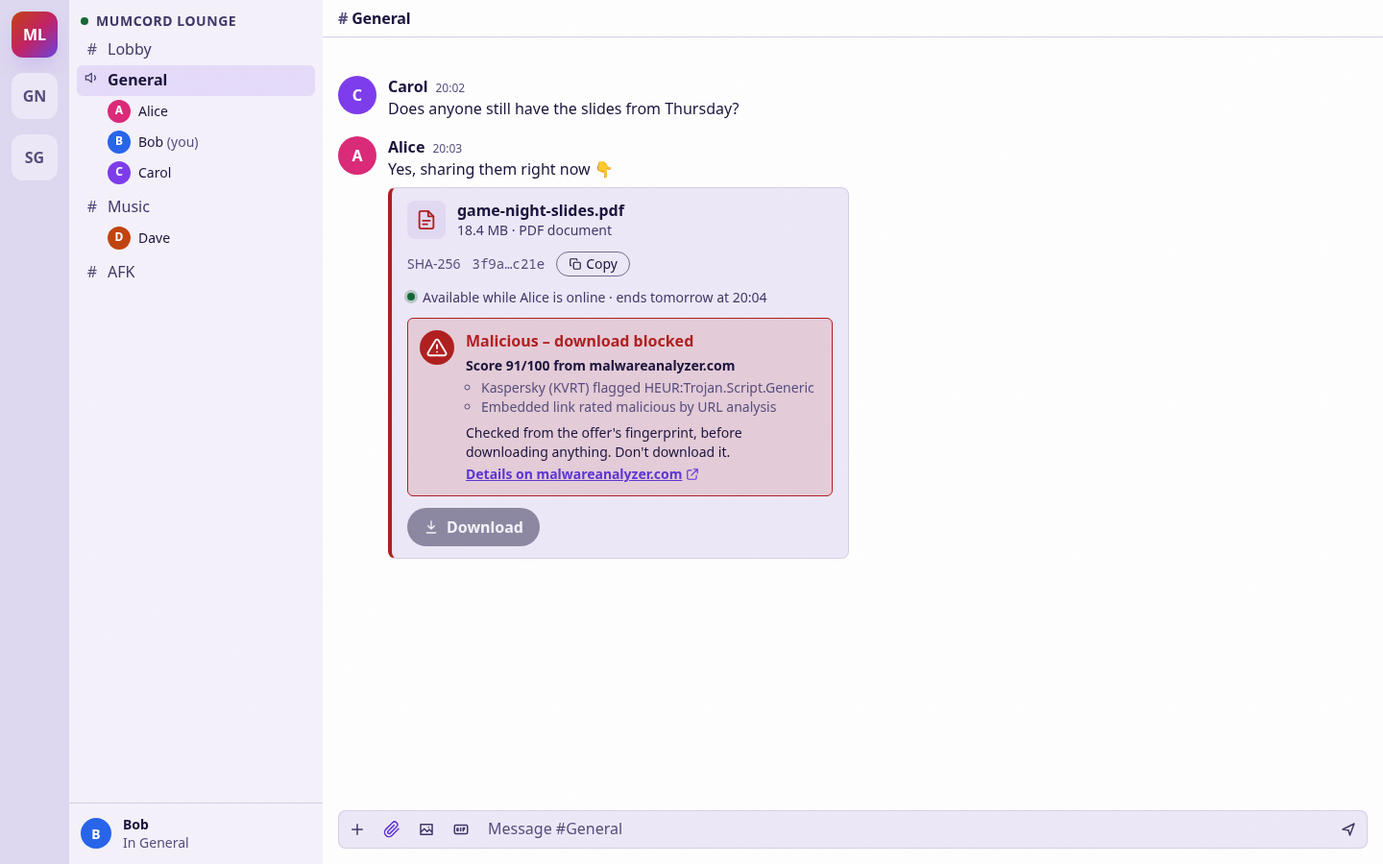
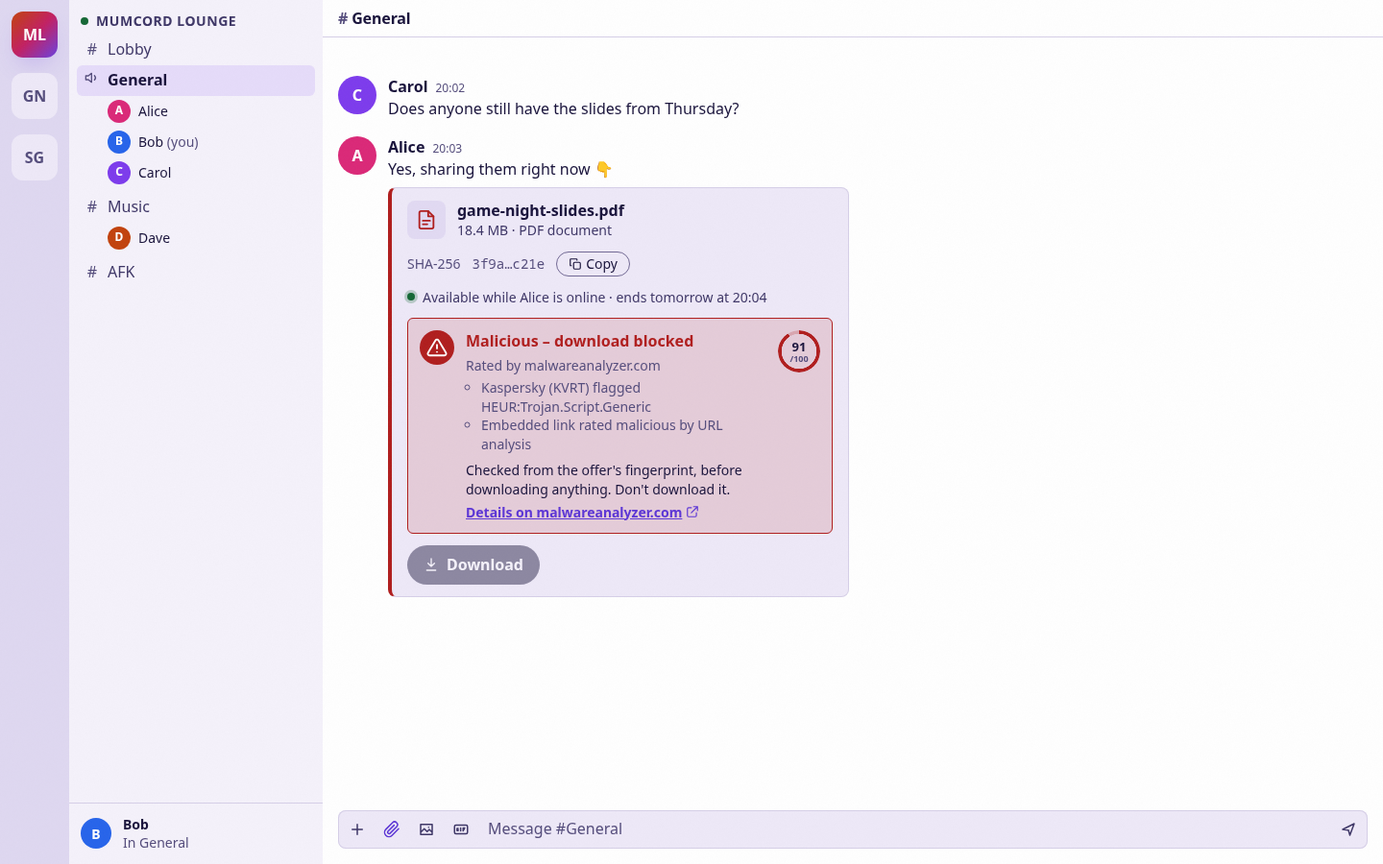
docs: add malware score ring and heuristic-only media state to Epic 4.1 mockups
Show the score as a ring coloured by verdict next to every malware result,
and add 15-suspicious-media: a JPEG flagged only by heuristics gets an
informational note and a normal Download button.

Changed region(s): [[0.2812, 0.3733, 0.625, 0.6844]]

diff --git a/docs/mockups/epic-4.1/15-suspicious-media.html b/docs/mockups/epic-4.1/15-suspicious-media.html
@@ -1,0 +1,68 @@
+<!doctype html>
+<html lang="en" data-theme="dark">
+<head>
+<meta charset="utf-8">
+<meta name="viewport" content="width=device-width, initial-scale=1">
+<title>Recipient – suspicious media offer – Epic 4.1 mockup</title>
+<!-- Same fonts the app bundles via @fontsource (not installed for static mockups). -->
+<link rel="stylesheet" href="https://fonts.googleapis.com/css2?family=Bricolage+Grotesque:opsz,wght@12..96,200..800&family=Instrument+Sans:wght@400..700&display=swap">
+<link rel="stylesheet" href="../../../ui/src/theme/global.css">
+<link rel="stylesheet" href="../../../ui/src/app/shell.css">
+<link rel="stylesheet" href="../../../ui/src/features/app/app.css">
+<link rel="stylesheet" href="../../../ui/src/features/servers/servers.css">
+<link rel="stylesheet" href="../../../ui/src/features/channels/channels.css">
+<link rel="stylesheet" href="../../../ui/src/features/members/members.css">
+<link rel="stylesheet" href="../../../ui/src/features/chat/chat.css">
+<link rel="stylesheet" href="../../../ui/src/features/chat/mediaCards.css">
+<link rel="stylesheet" href="../../../ui/src/features/plugins/prompt/progress.css">
+<link rel="stylesheet" href="../../../ui/src/features/settings/settings.css">
+<link rel="stylesheet" href="mock.css">
+<!-- ?theme=light switches to the light theme, like the app's data-theme on <html>. -->
+<script>document.documentElement.dataset.theme = new URLSearchParams(location.search).get("theme") || "dark";</script>
+</head>
+<body class="">
+<div class="shell" style="--channels-width: 16.5rem; --members-column-width: 0px">
+  <nav class="shell__servers" aria-label="Servers"><div class="server-bar"><ul class="server-bar__list"><li class="server-bar__item" data-active><button class="server-bar__server mock-server mock-server--active" type="button" aria-label="Mumcord Lounge">ML</button></li><li class="server-bar__item"><button class="server-bar__server mock-server" type="button" aria-label="Game Night">GN</button></li><li class="server-bar__item"><button class="server-bar__server mock-server" type="button" aria-label="Study Group">SG</button></li></ul></div></nav>
+  <div class="shell__channel-column" aria-label="Channels">
+    <div class="mock-section"><h2 class="server-section__title"><span class="server-section__dot"></span><span class="server-section__name">Mumcord Lounge</span></h2></div>
+    <ul class="mock-tree"><li class="mock-channel"><div class="tree-channel__row"><span class="tree-channel__glyph"><span class="mock-hash">#</span></span><span class="tree-channel__label"><span class="tree-channel__name">Lobby</span></span></div></li><li class="mock-channel"><div class="tree-channel__row" data-here><span class="tree-channel__glyph"><svg viewBox="0 0 24 24" width="16" height="16" aria-hidden="true" fill="none" stroke="currentColor" stroke-width="2" stroke-linecap="round" stroke-linejoin="round"><path d="M11 5 6 9H2v6h4l5 4zM15.5 8.5a5 5 0 0 1 0 7"/></svg></span><span class="tree-channel__label"><span class="tree-channel__name">General</span></span></div><ul class="mock-people"><li class="tree-person mock-person"><span class="tree-person__row"><span class="avatar" data-size="sm" data-initial="A" style="--avatar-bg: var(--color-avatar-4)" aria-hidden="true"></span><span class="tree-person__name">Alice</span></span></li><li class="tree-person mock-person"><span class="tree-person__row"><span class="avatar" data-size="sm" data-initial="B" style="--avatar-bg: var(--color-avatar-8)" aria-hidden="true"></span><span class="tree-person__name">Bob <span class="tree-person__you">(you)</span></span></span></li><li class="tree-person mock-person"><span class="tree-person__row"><span class="avatar" data-size="sm" data-initial="C" style="--avatar-bg: var(--color-avatar-2)" aria-hidden="true"></span><span class="tree-person__name">Carol</span></span></li></ul></li><li class="mock-channel"><div class="tree-channel__row"><span class="tree-channel__glyph"><span class="mock-hash">#</span></span><span class="tree-channel__label"><span class="tree-channel__name">Music</span></span></div><ul class="mock-people"><li class="tree-person mock-person"><span class="tree-person__row"><span class="avatar" data-size="sm" data-initial="D" style="--avatar-bg: var(--color-avatar-6)" aria-hidden="true"></span><span class="tree-person__name">Dave</span></span></li></ul></li><li class="mock-channel"><div class="tree-channel__row"><span class="tree-channel__glyph"><span class="mock-hash">#</span></span><span class="tree-channel__label"><span class="tree-channel__name">AFK</span></span></div></li></ul>
+    <section class="shell__user-panel mock-userpanel" aria-label="You"><span class="avatar" data-size="md" data-initial="B" style="--avatar-bg: var(--color-avatar-8)" aria-hidden="true"></span><span><strong>Bob</strong><br><span class="mock-muted">In General</span></span></section>
+  </div>
+  <main class="shell__chat" aria-label="Chat">
+  <header class="chat-header"><h2 class="chat-header__title"><span class="chat-header__hash" aria-hidden="true">#</span>General</h2></header>
+  <div class="shell__chat-body">
+    <div class="chat-list-frame"><div class="chat-list"><ul class="chat-list__items"><li class="chat-message chat-message--start"><div class="chat-message__row">
+  <div class="chat-message__gutter"><span class="avatar" data-size="md" data-initial="C" style="--avatar-bg: var(--color-avatar-2)" aria-hidden="true"></span></div>
+  <div class="chat-message__content"><div class="chat-message__header"><span class="chat-message__sender">Carol</span><time class="chat-message__time">20:02</time></div>
+  <div class="chat-message__body"><p>Does anyone still have the slides from Thursday?</p></div></div></div></li><li class="chat-message chat-message--start"><div class="chat-message__row">
+  <div class="chat-message__gutter"><span class="avatar" data-size="md" data-initial="A" style="--avatar-bg: var(--color-avatar-4)" aria-hidden="true"></span></div>
+  <div class="chat-message__content"><div class="chat-message__header"><span class="chat-message__sender">Alice</span><time class="chat-message__time">20:03</time></div>
+  <div class="chat-message__body"><p>Here's the group photo from Thursday 👇</p></div></div></div></li><li class="chat-message"><div class="chat-message__row"><div class="chat-message__gutter"></div>
+  <div class="chat-message__content"><div class="chat-message__body"><div class="audio-card file-card" role="group" aria-label="File photo.jpg">
+  <div class="audio-card__head">
+    <span class="audio-card__icon"><svg viewBox="0 0 24 24" width="22" height="22" aria-hidden="true" fill="none" stroke="currentColor" stroke-width="2" stroke-linecap="round" stroke-linejoin="round"><rect x="3" y="3" width="18" height="18" rx="2"/><circle cx="8.5" cy="8.5" r="1.5"/><path d="m21 15-5-5L5 21"/></svg></span>
+    <div class="audio-card__text"><p class="audio-card__name">photo.jpg</p><p class="audio-card__facts">3.1 MB · JPEG image</p></div>
+  </div>
+  
[1 lines of base64/hex data omitted]
+  <p class="file-card__status"><span class="file-card__dot" data-online></span>Available while Alice is online · ends tomorrow at 20:04</p>
+  <div class="malware-note"><span class="score-ring" data-level="suspicious" style="--score: 49" role="img" aria-label="Malware score 49 of 100, suspicious"><span class="score-ring__value" aria-hidden="true">49<span class="score-ring__max">/100</span></span></span><div class="malware-alert__body"><p class="malware-note__title">Flagged by heuristics only — common for images</p><p class="malware-alert__source">Rated suspicious by malwareanalyzer.com</p><ul class="malware-alert__signals" aria-label="Top findings"><li>MalwareAnalyser heuristics (entropy/packer) flagged high-entropy-blob</li><li>Embedded URL in the photo's metadata (purl.org)</li></ul><p>Compressed images look like this to the scanner. No antivirus engine flagged it.</p><a class="malware-alert__details" href="https://malwareanalyzer.com/report/19a352555dbb5e5b40ca3b7b7f1246a86e2b8db87629aabd70b4572fd1d55158" title="Opens malwareanalyzer.com in your browser">Details on malwareanalyzer.com<svg viewBox="0 0 24 24" width="14" height="14" aria-hidden="true" fill="none" stroke="currentColor" stroke-width="2" stroke-linecap="round" stroke-linejoin="round"><path d="M14 3h7v7M10 14 21 3M19 14v5a2 2 0 0 1-2 2H5a2 2 0 0 1-2-2V7a2 2 0 0 1 2-2h5"/></svg><span class="mock-sr">(opens in your browser)</span></a></div></div>
+  <div class="file-card__actions"><button type="button" class="button button--primary file-card__button"><svg viewBox="0 0 24 24" width="16" height="16" aria-hidden="true" fill="none" stroke="currentColor" stroke-width="2" stroke-linecap="round" stroke-linejoin="round"><path d="M12 3v12M7 10l5 5 5-5M5 21h14"/></svg><span>Download</span></button></div>
+</div></div></div></div></li></ul></div></div>
+    <form class="chat-composer" aria-label="Message composer">
+  
+  <div class="chat-composer__row">
+    <div class="chat-apps"><button type="button" class="chat-composer__icon chat-apps__button" aria-label="Apps"><svg viewBox="0 0 24 24" width="18" height="18" aria-hidden="true" fill="none" stroke="currentColor" stroke-width="2" stroke-linecap="round" stroke-linejoin="round"><path d="M12 5v14M5 12h14"/></svg></button></div>
+    <button type="button" class="chat-composer__icon mock-new" aria-label="Attach a file" data-tooltip="Attach a file"><svg viewBox="0 0 24 24" width="18" height="18" aria-hidden="true" fill="none" stroke="currentColor" stroke-width="2" stroke-linecap="round" stroke-linejoin="round"><path d="m21.4 11.1-9.2 9.2a6 6 0 0 1-8.5-8.5l9.2-9.2a4 4 0 0 1 5.7 5.7l-9.2 9.2a2 2 0 0 1-2.8-2.8l8.5-8.5"/></svg></button>
+    <button type="button" class="chat-composer__icon" aria-label="Add image"><svg viewBox="0 0 24 24" width="18" height="18" aria-hidden="true" fill="none" stroke="currentColor" stroke-width="2" stroke-linecap="round" stroke-linejoin="round"><path d="M4 5h16v14H4zM4 16l5-5 4 4 3-3 4 4M15 9h.01"/></svg></button>
+    <button type="button" class="chat-composer__icon" aria-label="GIF"><svg viewBox="0 0 24 24" width="18" height="18" aria-hidden="true" fill="none" stroke="currentColor" stroke-width="2" stroke-linecap="round" stroke-linejoin="round"><rect x="3" y="6" width="18" height="12" rx="2"/><path d="M8 10.5h-1.5v3H8v-1.2M11.5 10v4M15 14v-4h2.2M15 12h1.6"/></svg></button>
+    <textarea class="chat-composer__input" rows="1" aria-label="Message #General" placeholder="Message #General"></textarea>
+    <button type="submit" class="chat-composer__icon" aria-label="Send"><svg viewBox="0 0 24 24" width="18" height="18" aria-hidden="true" fill="none" stroke="currentColor" stroke-width="2" stroke-linecap="round" stroke-linejoin="round"><path d="M4 12l16-8-6 16-2-7z"/></svg></button>
+  </div>
+</form>
+  </div>
+  
+</main>
+</div>
+</body>
+</html>

diff --git a/docs/mockups/epic-4.1/14-suspicious.html b/docs/mockups/epic-4.1/14-suspicious.html
@@ -46,7 +46,7 @@
   
[1 lines of base64/hex data omitted]
   <p class="file-card__status"><span class="file-card__dot" data-online></span>Available while Alice is online · ends tomorrow at 20:04</p>
-  <div class="malware-alert malware-alert--suspicious" role="alert"><span class="malware-alert__icon"><svg viewBox="0 0 24 24" width="22" height="22" aria-hidden="true" fill="none" stroke="currentColor" stroke-width="2" stroke-linecap="round" stroke-linejoin="round"><path d="M10.3 3.9 1.8 18a2 2 0 0 0 1.7 3h17a2 2 0 0 0 1.7-3L13.7 3.9a2 2 0 0 0-3.4 0zM12 9v4M12 17h.01"/></svg></span><div><p class="malware-alert__title">Suspicious – check before downloading</p><p class="malware-alert__score">Score 54/100 from malwareanalyzer.com</p><ul class="malware-alert__signals" aria-label="Top findings"><li>Emsisoft (Emergency Kit) flagged PDF.Spam.Heur.1</li><li>MalwareAnalyser heuristics (entropy/packer) flagged high-entropy-blob</li></ul><p>Some signs point to a harmful file, but it isn't confirmed. Only download it if you trust Alice and expected this file.</p><a class="malware-alert__details" href="https://malwareanalyzer.com/report/8c41d0e9a7f35b26c1e8d4a09f7b3e52d6a1c8f40b9e27d5a3c6f1e08b4d97a2" title="Opens malwareanalyzer.com in your browser">Details on malwareanalyzer.com<svg viewBox="0 0 24 24" width="14" height="14" aria-hidden="true" fill="none" stroke="currentColor" stroke-width="2" stroke-linecap="round" stroke-linejoin="round"><path d="M14 3h7v7M10 14 21 3M19 14v5a2 2 0 0 1-2 2H5a2 2 0 0 1-2-2V7a2 2 0 0 1 2-2h5"/></svg><span class="mock-sr">(opens in your browser)</span></a></div></div>
+  <div class="malware-alert malware-alert--suspicious" role="alert"><span class="malware-alert__icon"><svg viewBox="0 0 24 24" width="22" height="22" aria-hidden="true" fill="none" stroke="currentColor" stroke-width="2" stroke-linecap="round" stroke-linejoin="round"><path d="M10.3 3.9 1.8 18a2 2 0 0 0 1.7 3h17a2 2 0 0 0 1.7-3L13.7 3.9a2 2 0 0 0-3.4 0zM12 9v4M12 17h.01"/></svg></span><div class="malware-alert__body"><p class="malware-alert__title">Suspicious – check before downloading</p><p class="malware-alert__source">Rated by malwareanalyzer.com</p><ul class="malware-alert__signals" aria-label="Top findings"><li>Emsisoft (Emergency Kit) flagged PDF.Spam.Heur.1</li><li>MalwareAnalyser heuristics (entropy/packer) flagged high-entropy-blob</li></ul><p>Some signs point to a harmful file, but it isn't confirmed. Only download it if you trust Alice and expected this file.</p><a class="malware-alert__details" href="https://malwareanalyzer.com/report/8c41d0e9a7f35b26c1e8d4a09f7b3e52d6a1c8f40b9e27d5a3c6f1e08b4d97a2" title="Opens malwareanalyzer.com in your browser">Details on malwareanalyzer.com<svg viewBox="0 0 24 24" width="14" height="14" aria-hidden="true" fill="none" stroke="currentColor" stroke-width="2" stroke-linecap="round" stroke-linejoin="round"><path d="M14 3h7v7M10 14 21 3M19 14v5a2 2 0 0 1-2 2H5a2 2 0 0 1-2-2V7a2 2 0 0 1 2-2h5"/></svg><span class="mock-sr">(opens in your browser)</span></a></div><span class="score-ring" data-level="suspicious" style="--score: 54" role="img" aria-label="Malware score 54 of 100, suspicious"><span class="score-ring__value" aria-hidden="true">54<span class="score-ring__max">/100</span></span></span></div>
   <div class="file-card__actions"><button type="button" class="media-pill file-card__button file-card__button--warning"><svg viewBox="0 0 24 24" width="16" height="16" aria-hidden="true" fill="none" stroke="currentColor" stroke-width="2" stroke-linecap="round" stroke-linejoin="round"><path d="M12 3v12M7 10l5 5 5-5M5 21h14"/></svg><span>Download anyway…</span></button><span class="mock-muted">Asks you to confirm first.</span></div>
 </div></div></div></div></li></ul></div></div>
     <form class="chat-composer" aria-label="Message composer">

diff --git a/docs/mockups/epic-4.1/02b-offer-malware.html b/docs/mockups/epic-4.1/02b-offer-malware.html
@@ -46,7 +46,7 @@
   
[1 lines of base64/hex data omitted]
   <p class="file-card__status"><span class="file-card__dot" data-online></span>Available while Alice is online · ends tomorrow at 20:04</p>
-  <div class="malware-alert" role="alert"><span class="malware-alert__icon"><svg viewBox="0 0 24 24" width="22" height="22" aria-hidden="true" fill="none" stroke="currentColor" stroke-width="2" stroke-linecap="round" stroke-linejoin="round"><path d="M10.3 3.9 1.8 18a2 2 0 0 0 1.7 3h17a2 2 0 0 0 1.7-3L13.7 3.9a2 2 0 0 0-3.4 0zM12 9v4M12 17h.01"/></svg></span><div><p class="malware-alert__title">Malicious – download blocked</p><p class="malware-alert__score">Score 91/100 from malwareanalyzer.com</p><ul class="malware-alert__signals" aria-label="Top findings"><li>Kaspersky (KVRT) flagged HEUR:Trojan.Script.Generic</li><li>Embedded link rated malicious by URL analysis</li></ul><p>Checked from the offer's fingerprint, before downloading anything. Don't download it.</p><a class="malware-alert__details" href="https://malwareanalyzer.com/report/3f9a1c7e5b2d8046a9e3c1f7d5b8a24e60c9f1d3b7a5e8c2406d9b1f3a7ec21e" title="Opens malwareanalyzer.com in your browser">Details on malwareanalyzer.com<svg viewBox="0 0 24 24" width="14" height="14" aria-hidden="true" fill="none" stroke="currentColor" stroke-width="2" stroke-linecap="round" stroke-linejoin="round"><path d="M14 3h7v7M10 14 21 3M19 14v5a2 2 0 0 1-2 2H5a2 2 0 0 1-2-2V7a2 2 0 0 1 2-2h5"/></svg><span class="mock-sr">(opens in your browser)</span></a></div></div>
+  <div class="malware-alert" role="alert"><span class="malware-alert__icon"><svg viewBox="0 0 24 24" width="22" height="22" aria-hidden="true" fill="none" stroke="currentColor" stroke-width="2" stroke-linecap="round" stroke-linejoin="round"><path d="M10.3 3.9 1.8 18a2 2 0 0 0 1.7 3h17a2 2 0 0 0 1.7-3L13.7 3.9a2 2 0 0 0-3.4 0zM12 9v4M12 17h.01"/></svg></span><div class="malware-alert__body"><p class="malware-alert__title">Malicious – download blocked</p><p class="malware-alert__source">Rated by malwareanalyzer.com</p><ul class="malware-alert__signals" aria-label="Top findings"><li>Kaspersky (KVRT) flagged HEUR:Trojan.Script.Generic</li><li>Embedded link rated malicious by URL analysis</li></ul><p>Checked from the offer's fingerprint, before downloading anything. Don't download it.</p><a class="malware-alert__details" href="https://malwareanalyzer.com/report/3f9a1c7e5b2d8046a9e3c1f7d5b8a24e60c9f1d3b7a5e8c2406d9b1f3a7ec21e" title="Opens malwareanalyzer.com in your browser">Details on malwareanalyzer.com<svg viewBox="0 0 24 24" width="14" height="14" aria-hidden="true" fill="none" stroke="currentColor" stroke-width="2" stroke-linecap="round" stroke-linejoin="round"><path d="M14 3h7v7M10 14 21 3M19 14v5a2 2 0 0 1-2 2H5a2 2 0 0 1-2-2V7a2 2 0 0 1 2-2h5"/></svg><span class="mock-sr">(opens in your browser)</span></a></div><span class="score-ring" data-level="malicious" style="--score: 91" role="img" aria-label="Malware score 91 of 100, malicious"><span class="score-ring__value" aria-hidden="true">91<span class="score-ring__max">/100</span></span></span></div>
   <div class="file-card__actions"><button type="button" class="button button--primary file-card__button" disabled aria-disabled="true"><svg viewBox="0 0 24 24" width="16" height="16" aria-hidden="true" fill="none" stroke="currentColor" stroke-width="2" stroke-linecap="round" stroke-linejoin="round"><path d="M12 3v12M7 10l5 5 5-5M5 21h14"/></svg><span>Download</span></button></div>
 </div></div></div></div></li></ul></div></div>
     <form class="chat-composer" aria-label="Message composer">

diff --git a/docs/mockups/epic-4.1/10-malware-found.html b/docs/mockups/epic-4.1/10-malware-found.html
@@ -44,7 +44,7 @@
     <div class="audio-card__text"><p class="audio-card__name">game-night-slides.pdf</p><p class="audio-card__facts">18.4 MB · PDF document</p></div>
   </div>
   
-  <div class="malware-alert" role="alert"><span class="malware-alert__icon"><svg viewBox="0 0 24 24" width="22" height="22" aria-hidden="true" fill="none" stroke="currentColor" stroke-width="2" stroke-linecap="round" stroke-linejoin="round"><path d="M10.3 3.9 1.8 18a2 2 0 0 0 1.7 3h17a2 2 0 0 0 1.7-3L13.7 3.9a2 2 0 0 0-3.4 0zM12 9v4M12 17h.01"/></svg></span><div><p class="malware-alert__title">Malicious – this file was not opened</p><p class="malware-alert__score">Score 91/100 from malwareanalyzer.com</p><ul class="malware-alert__signals" aria-label="Top findings"><li>Kaspersky (KVRT) flagged HEUR:Trojan.Script.Generic</li><li>Embedded link rated malicious by URL analysis</li></ul><p>Mumcord moved it to quarantine, so it can't run. Delete it unless you are sure you need it.</p><a class="malware-alert__details" href="https://malwareanalyzer.com/report/3f9a1c7e5b2d8046a9e3c1f7d5b8a24e60c9f1d3b7a5e8c2406d9b1f3a7ec21e" title="Opens malwareanalyzer.com in your browser">Details on malwareanalyzer.com<svg viewBox="0 0 24 24" width="14" height="14" aria-hidden="true" fill="none" stroke="currentColor" stroke-width="2" stroke-linecap="round" stroke-linejoin="round"><path d="M14 3h7v7M10 14 21 3M19 14v5a2 2 0 0 1-2 2H5a2 2 0 0 1-2-2V7a2 2 0 0 1 2-2h5"/></svg><span class="mock-sr">(opens in your browser)</span></a></div></div>
+  <div class="malware-alert" role="alert"><span class="malware-alert__icon"><svg viewBox="0 0 24 24" width="22" height="22" aria-hidden="true" fill="none" stroke="currentColor" stroke-width="2" stroke-linecap="round" stroke-linejoin="round"><path d="M10.3 3.9 1.8 18a2 2 0 0 0 1.7 3h17a2 2 0 0 0 1.7-3L13.7 3.9a2 2 0 0 0-3.4 0zM12 9v4M12 17h.01"/></svg></span><div class="malware-alert__body"><p class="malware-alert__title">Malicious – this file was not opened</p><p class="malware-alert__source">Rated by malwareanalyzer.com</p><ul class="malware-alert__signals" aria-label="Top findings"><li>Kaspersky (KVRT) flagged HEUR:Trojan.Script.Generic</li><li>Embedded link rated malicious by URL analysis</li></ul><p>Mumcord moved it to quarantine, so it can't run. Delete it unless you are sure you need it.</p><a class="malware-alert__details" href="https://malwareanalyzer.com/report/3f9a1c7e5b2d8046a9e3c1f7d5b8a24e60c9f1d3b7a5e8c2406d9b1f3a7ec21e" title="Opens malwareanalyzer.com in your browser">Details on malwareanalyzer.com<svg viewBox="0 0 24 24" width="14" height="14" aria-hidden="true" fill="none" stroke="currentColor" stroke-width="2" stroke-linecap="round" stroke-linejoin="round"><path d="M14 3h7v7M10 14 21 3M19 14v5a2 2 0 0 1-2 2H5a2 2 0 0 1-2-2V7a2 2 0 0 1 2-2h5"/></svg><span class="mock-sr">(opens in your browser)</span></a></div><span class="score-ring" data-level="malicious" style="--score: 91" role="img" aria-label="Malware score 91 of 100, malicious"><span class="score-ring__value" aria-hidden="true">91<span class="score-ring__max">/100</span></span></span></div>
   <div class="file-card__actions"><button type="button" class="button button--primary file-card__button file-card__button--delete"><svg viewBox="0 0 24 24" width="16" height="16" aria-hidden="true" fill="none" stroke="currentColor" stroke-width="2" stroke-linecap="round" stroke-linejoin="round"><path d="M3 6h18M8 6V4h8v2M6 6l1 14h10l1-14"/></svg><span>Delete</span></button><button type="button" class="media-pill file-card__button file-card__button--danger"><span>Keep anyway…</span></button><span class="mock-muted">Keeping it asks you to confirm first.</span></div>
 </div>
 </div></div></div></div></li></ul></div></div>

diff --git a/docs/mockups/epic-4.1/mock.css b/docs/mockups/epic-4.1/mock.css
@@ -101,7 +101,6 @@ body { overflow: hidden; }
 .malware-alert__icon { display: grid; flex: none; place-items: center; width: 2.25rem; height: 2.25rem; border-radius: 50%; background: var(--color-danger); color: #fff; }
 .malware-alert__title { margin-bottom: var(--space-1) !important; color: var(--color-danger); font-size: var(--font-size-md, 1rem); font-weight: var(--font-weight-bold); }
 /* Verdict details: score, the top signals (plain text from the server, never HTML) and a link to the provider's report. */
-.malware-alert__score { margin-bottom: var(--space-1) !important; font-weight: var(--font-weight-bold); }
 .malware-alert__signals { margin: 0 0 var(--space-2); padding-left: var(--space-4); color: var(--color-text-muted); }
 .malware-alert__signals li { margin: 0; }
 .malware-alert__details { display: inline-flex; margin-top: var(--space-1); gap: var(--space-1); align-items: center; color: var(--color-accent-text); font-weight: var(--font-weight-bold); text-decoration: underline; }
@@ -123,3 +122,22 @@ body { overflow: hidden; }
 .file-card__copy { display: inline-flex; align-items: center; gap: var(--space-1); padding-block: 2px; }
 .mock-sr { position: absolute; width: 1px; height: 1px; overflow: hidden; clip-path: inset(50%); white-space: nowrap; }
 :root[data-theme="dark"] .malware-alert--suspicious .malware-alert__icon { color: #2a1a00; }
+
+/* Malware score ring: the arc fills to the score (0–100) in the verdict's colour; grey with "–" when there is no score. */
+.score-ring { --ring: var(--color-text-muted); --size: 2.75rem; position: relative; display: inline-grid; flex: none; place-items: center; width: var(--size); height: var(--size); color: var(--color-text); line-height: 1; text-align: center; }
+.score-ring::before { content: ""; position: absolute; inset: 0; border-radius: 50%; background: conic-gradient(var(--ring) calc(var(--score, 0) * 1%), color-mix(in srgb, var(--ring) 22%, transparent) 0); mask: radial-gradient(farthest-side, transparent calc(100% - 4px), #000 calc(100% - 3.5px)); }
+.score-ring__value { font-size: 0.8125rem; font-weight: var(--font-weight-bold); }
+.score-ring__max { display: block; margin-top: 1px; font-size: 0.5625rem; color: var(--color-text-muted); }
+.score-ring--sm { --size: 2.25rem; }
+.score-ring--sm .score-ring__value { font-size: 0.6875rem; }
+.score-ring--sm .score-ring__max { font-size: 0.5rem; }
+.score-ring[data-level="malicious"] { --ring: var(--color-danger); }
+.score-ring[data-level="suspicious"] { --ring: var(--color-warning); }
+.score-ring[data-level="clean"] { --ring: var(--color-success); }
+.score-ring[data-level="unknown"]::before { background: color-mix(in srgb, var(--ring) 45%, transparent); }
+.file-card__scan:has(.score-ring) { align-items: center; }
+.malware-alert__body { flex: 1; min-width: 0; }
+.malware-alert__source { margin-bottom: var(--space-1) !important; color: var(--color-text-muted); }
+/* Heuristic-only finding on a media file: informational, so no alert role, no blocking, no confirmation. */
+.malware-note { display: flex; gap: var(--space-3); align-items: flex-start; padding: var(--space-3); border: 1px solid color-mix(in srgb, var(--color-warning) 45%, transparent); border-radius: var(--radius-sm); font-size: var(--font-size-sm); }
+.malware-note__title { margin-bottom: var(--space-1) !important; font-weight: var(--font-weight-bold); }

diff --git a/docs/mockups/epic-4.1/04-done.html b/docs/mockups/epic-4.1/04-done.html
@@ -46,7 +46,7 @@
   
[1 lines of base64/hex data omitted]
   <p class="file-card__status"><span class="file-card__ok">✓ Downloaded</span><span class="file-card__ok">✓ Matches the offer</span><span class="mock-muted">Saved to Downloads/Mumcord</span></p>
-  <p class="file-card__status file-card__scan"><svg viewBox="0 0 24 24" width="14" height="14" aria-hidden="true" fill="none" stroke="currentColor" stroke-width="2" stroke-linecap="round" stroke-linejoin="round"><path d="M12 22s8-4 8-10V5l-8-3-8 3v7c0 6 8 10 8 10z"/></svg><span>No threats found by malwareanalyzer.com (score 2/100) — not a guarantee</span></p>
+  <p class="file-card__status file-card__scan"><span class="score-ring score-ring--sm" data-level="clean" style="--score: 2" role="img" aria-label="Malware score 2 of 100, clean"><span class="score-ring__value" aria-hidden="true">2<span class="score-ring__max">/100</span></span></span><span>No threats found by malwareanalyzer.com — not a guarantee</span></p>
   <div class="file-card__actions"><button type="button" class="media-pill file-card__button"><svg viewBox="0 0 24 24" width="16" height="16" aria-hidden="true" fill="none" stroke="currentColor" stroke-width="2" stroke-linecap="round" stroke-linejoin="round"><path d="M3 7a2 2 0 0 1 2-2h4l2 2h8a2 2 0 0 1 2 2v8a2 2 0 0 1-2 2H5a2 2 0 0 1-2-2z"/></svg><span>Open folder</span></button><button type="button" class="media-pill file-card__button"><svg viewBox="0 0 24 24" width="16" height="16" aria-hidden="true" fill="none" stroke="currentColor" stroke-width="2" stroke-linecap="round" stroke-linejoin="round"><path d="M14 2H6a2 2 0 0 0-2 2v16a2 2 0 0 0 2 2h12a2 2 0 0 0 2-2V8z"/><path d="M14 2v6h6M8 13h8M8 17h5"/></svg><span>Open</span></button></div>
 </div></div></div></div></li></ul></div></div>
     <form class="chat-composer" aria-label="Message composer">

diff --git a/docs/mockups/epic-4.1/02-offer-card.html b/docs/mockups/epic-4.1/02-offer-card.html
@@ -46,7 +46,7 @@
   
[1 lines of base64/hex data omitted]
   <p class="file-card__status"><span class="file-card__dot" data-online></span>Available while Alice is online · ends tomorrow at 20:04</p>
-  <p class="file-card__status file-card__scan"><svg viewBox="0 0 24 24" width="14" height="14" aria-hidden="true" fill="none" stroke="currentColor" stroke-width="2" stroke-linecap="round" stroke-linejoin="round"><path d="M12 22s8-4 8-10V5l-8-3-8 3v7c0 6 8 10 8 10z"/></svg><span>Checked before download: not found in the malware database</span></p>
+  <p class="file-card__status file-card__scan"><span class="score-ring score-ring--sm" data-level="unknown" role="img" aria-label="Malware score not available, file not found in the malware database"><span class="score-ring__value" aria-hidden="true">–</span></span><span>Checked before download: not found in the malware database</span></p>
   <div class="file-card__actions"><button type="button" class="button button--primary file-card__button"><svg viewBox="0 0 24 24" width="16" height="16" aria-hidden="true" fill="none" stroke="currentColor" stroke-width="2" stroke-linecap="round" stroke-linejoin="round"><path d="M12 3v12M7 10l5 5 5-5M5 21h14"/></svg><span>Download</span></button></div>
 </div></div></div></div></li></ul></div></div>
     <form class="chat-composer" aria-label="Message composer">
